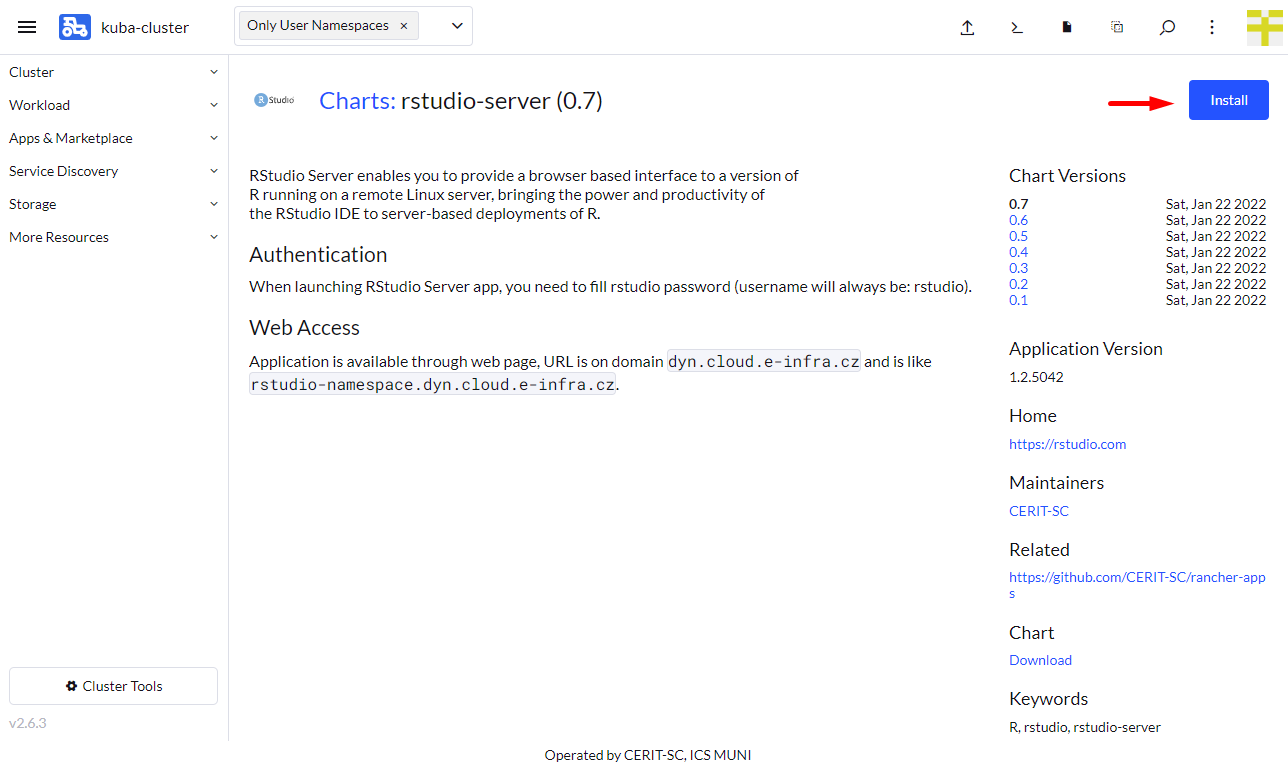
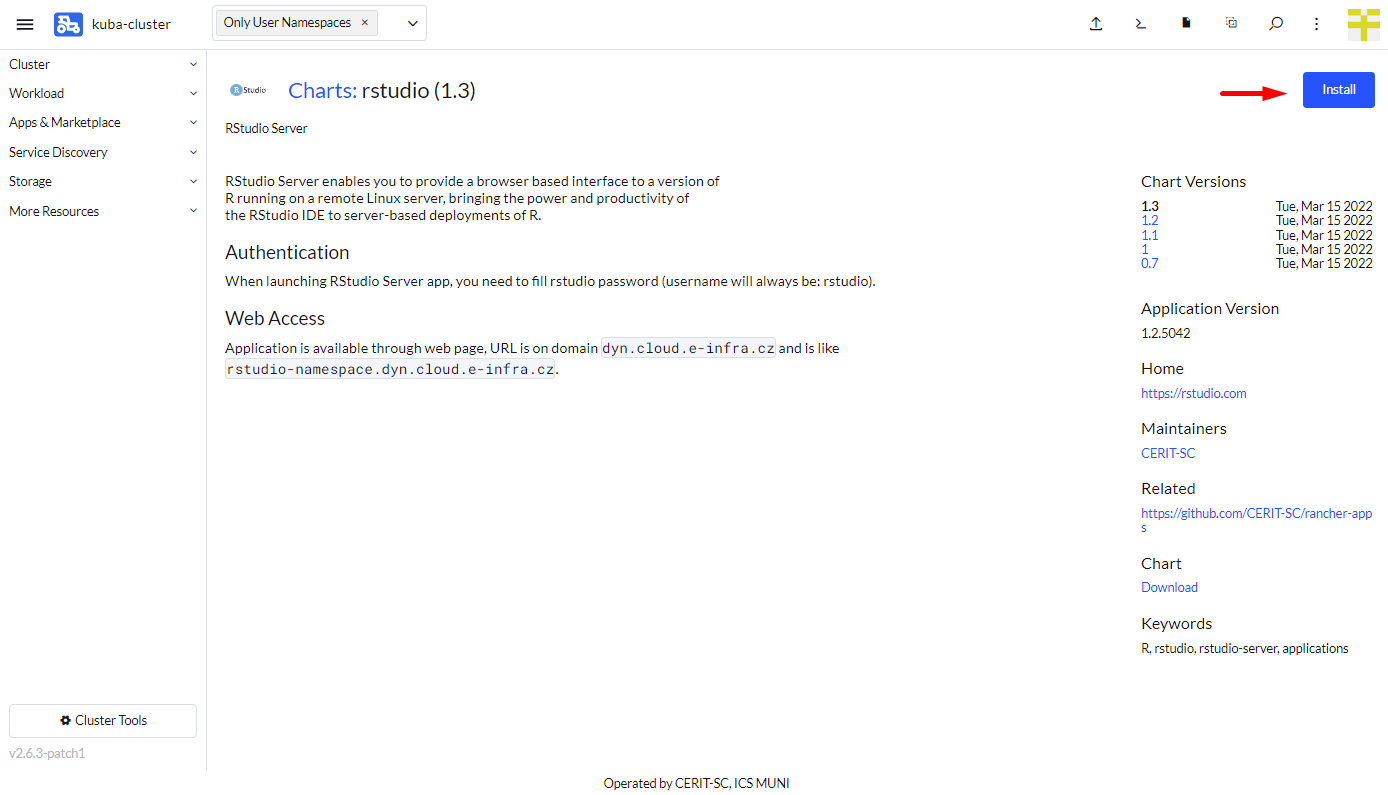
DOCS webinar: add text

diff --git a/docs/webinar1.md b/docs/webinar1.md
@@ -44,11 +44,11 @@ Pro pokračování je třeba odsouhlasit předání údajů jako je např. vaše
 
 ### Dashboard
 
-Po úspešném přihlášení se zobrazí úvodní plocha. 
+Po úspěšném přihlášení se zobrazí úvodní plocha. 
 
 ![dashboard](cluster.png)
 
-Může se stát, že po přihlášení není viditelný žádný cluser, zejména `kuba-cluster`. V tomto případě počkejte cca 1 minutu a dejte obnovit stránku prohlížeče (Reload). Přebytečná okna jako `Getting Started` nebo `What do you want to see when you log in?` křížkem zavřít. 
+Může se stát, že po přihlášení není viditelný žádný cluster, zejména `kuba-cluster`. V tomto případě počkejte cca 1 minutu a dejte obnovit stránku prohlížeče (Reload). Přebytečná okna jako `Getting Started` nebo `What do you want to see when you log in?` křížkem zavřít. 
 
 Dále je třeba pokračovat kliknutím na `kuba-cluster`.
 
@@ -58,7 +58,36 @@ Tím se dostáváte k ploše konkrétního clusteru, kde lze zobrazit přehledy,
 
 ![dashboard2](kuba-cluster.png)
 
+---
+
+## Aplikace
+
+Následují ukázky spuštění předpřipravených aplikací jako jsou RStudio server a Matlab. Pro Matlab je nutné mít fungujícího `vnc` klienta, na Linuxu např. `vncviewer`, na Mac OS stačí *Safari* prohlížeč.
+
+Na úvod upozornění, pro aplikace se zadávají požadavky na zdroje. Jak bylo zmíněno v prezentaci, je limit 20 CPU a 40GB Memory, zadání vyšších požadavků způsobí nespuštění aplikace.
+
 ### Rstudio
+
+V předchozí sekci bylo ukázáno jak se dostat na hlavní plochu `kuba-cluster`. Pro úspěšný začátek spuštění je nutné začít na táto ploše.
+
+![dashboard2](kuba-cluster.png)
+
+#### Výběr Aplikace
+
+Prvně je třeba se ujistit, že není zvolený žádný *Namespace* (viz šipka číslo 1). Jde o dočasnou chybu Rancheru, kdy při zvoleném *Namespace* neukazuje některé položky v Menu vlevo. Následně se pokračuje v navigaci přes `Apps & Marketplace` (šipka 2) a pak `Charts` (šipka 3). Dle šipky 4 je třeba vybrat pouze `cerit-sc`, jinak se nepřehledně ukazují i ostatní nerelevantní aplikace. A nakonec se vybere samotná aplikace `rstudio-server` (viz šipka 5, skutečná poloha ikony aplikace se liší, jak aplikace přibývají). 
+
+![selectapp](rstudio/selectapp.png)
+
+#### Instalace Aplikace
+
+Pod `Chart Versions` lze vybrat verzi instalační šablony. Vybereme verzi 1.3. Tato verze nijak nesouvisí s verzí RStudio serveru. Následně pokračujeme `Install`.
+
+![selectapp](rstudio/selectversion.png)
+
+Nyní začínáme parametrizovat instalaci a spuštění aplikace. Ve většině případů necháme vybraný *Namespace* ve tvaru `příjmení-ns` (šipka 1). Rovněž jméno aplikace lze nechat výchozí (šipka 2).
+
+![appinst](rstudio/appinst.png)
+
 
 ### Matlab
 
